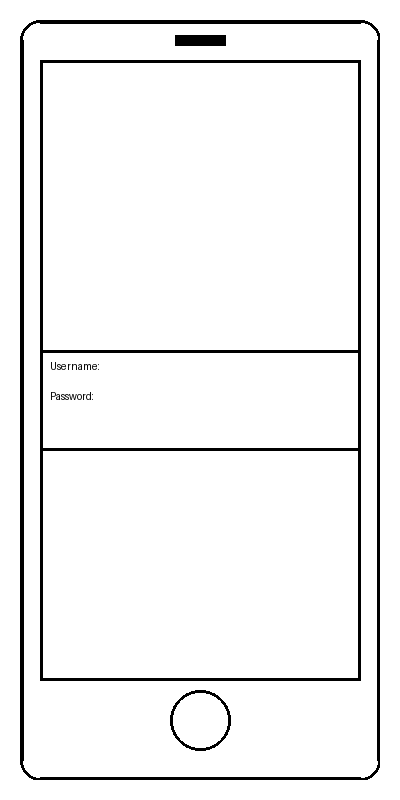
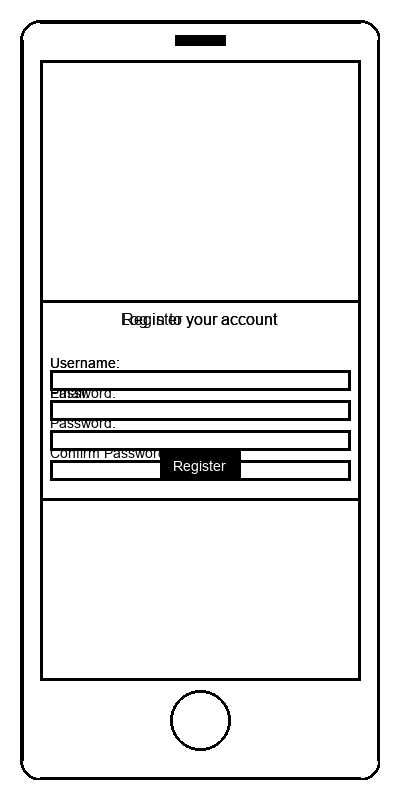
1

Changed region(s): [[0.12, 0.4375, 0.9, 0.625], [0.12, 0.375, 0.87, 0.4062]]

diff --git a/backend/myenv/nlp_processing.py b/backend/myenv/nlp_processing.py
@@ -17,18 +17,6 @@ def validate_plantuml_script(text):
     if not text.startswith("@startuml") or not text.endswith("@enduml"):
         raise ValueError("The script must start with '@startuml' and end with '@enduml'.")
 
-if __name__ == "__main__":
-    plantuml_script = sys.argv[1]
-
-    try:
-        validate_plantuml_script(plantuml_script)
-        parsed_text = parse_text(plantuml_script)
-        print(json.dumps({'parsed_text': parsed_text}))
-    except ValueError as e:
-        print(json.dumps(str(e)), file=sys.stderr)
-        sys.exit(1)
-
-
 def syntax_analysis(script):
     actor_pattern = r'actor\s+(\w+)'
     usecase_pattern = r'usecase\s+"(.*?)"\s+as\s+(\w+)'
@@ -46,7 +34,6 @@ print("Actors:", actors)
 print("Use Cases:", usecases)
 print("Relationships:", relationships)
 
-
 def map_to_wireframe_elements(actors, usecases, relationships):
     wireframe_elements = []
 
@@ -57,7 +44,6 @@ def map_to_wireframe_elements(actors, usecases, relationships):
             'component': 'user icon'  # Example UI component
         })
 
-    # Mapping use cases to UI components
     for usecase in usecases:
         wireframe_elements.append({
             'type': 'usecase',
@@ -75,7 +61,15 @@ def map_to_wireframe_elements(actors, usecases, relationships):
             'label': 'Login'
         })
 
-    # Mapping relationships to UI connectors
+    # Check for the "Register" use case
+    register_usecase = next((usecase for usecase in usecases if usecase[1] == 'Register'), None)
+    if register_usecase:
+        wireframe_elements.append({
+            'type': 'register_function',
+            'component': 'register form',  
+            'label': 'Register'
+        })
+
     for relationship in relationships:
         wireframe_elements.append({
             'type': 'relationship',
@@ -169,11 +163,12 @@ def generate_phone_wireframe_template(elements):
     phone_screen = phone_template((screen_width, screen_height), border_radius, "white", "black", border_width)
     img.paste(phone_screen, (screen_margin, screen_margin), phone_screen)
 
-    # Draw UI components
     for element in elements:
         if element['type'] == 'login_function':
             draw_login_form(draw, screen_margin, screen_width, screen_height, border_width)
-
+        elif element['type'] == 'register_function':
+            draw_register_form(draw, screen_margin, screen_width, screen_height, border_width)
+    
     img.show()
     img.save('phone_wireframe_template.png')
 
@@ -183,25 +178,28 @@ def draw_login_form(draw, screen_margin, screen_width, screen_height, border_wid
     form_x = (screen_width - form_width) // 2
     form_y = (screen_height - form_height) // 2
 
-    # Draw login form rectangle
     draw.rectangle([screen_margin + form_x, screen_margin + form_y,
                     screen_margin + form_x + form_width, screen_margin + form_y + form_height],
                    outline="black", width=border_width)
 
-    # Draw title text
     title_text = "Log in to your account"
     title_font_size = 16
-    title_font = ImageFont.truetype("arial.ttf", title_font_size)  # Adjust the font path if needed
+    try:
+        title_font = ImageFont.truetype("arial.ttf", title_font_size)
+    except IOError:
+        title_font = ImageFont.load_default()
     title_bbox = draw.textbbox((0, 0), title_text, font=title_font)
     title_width = title_bbox[2] - title_bbox[0]
     title_height = title_bbox[3] - title_bbox[1]
     title_x = screen_margin + form_x + (form_width - title_width) // 2
-    title_y = screen_margin + form_y + 10  # Add padding from top
+    title_y = screen_margin + form_y + 10
     draw.text((title_x, title_y), title_text, fill="black", font=title_font)
 
-    # Draw text fields labels
     label_font_size = 14
-    label_font = ImageFont.truetype("arial.ttf", label_font_size)  # Adjust the font path if needed
+    try:
+        label_font = ImageFont.truetype("arial.ttf", label_font_size)
+    except IOError:
+        label_font = ImageFont.load_default()
     username_label = "Username:"
     password_label = "Password:"
     username_bbox = draw.textbbox((0, 0), username_label, font=label_font)
@@ -209,7 +207,6 @@ def draw_login_form(draw, screen_margin, screen_width, screen_height, border_wid
     draw.text((screen_margin + form_x + 10, title_y + title_height + 30), username_label, fill="black", font=label_font)
     draw.text((screen_margin + form_x + 10, title_y + title_height + 60), password_label, fill="black", font=label_font)
 
-    # Draw text fields rectangles
     field_width = form_width - 20
     field_height = 20
     username_field_y = title_y + title_height + 45
@@ -221,7 +218,6 @@ def draw_login_form(draw, screen_margin, screen_width, screen_height, border_wid
                     screen_margin + form_x + 10 + field_width, password_field_y + field_height],
                    outline="black", width=border_width)
 
-    # Draw login button
     button_width = 80
     button_height = 30
     button_x = (screen_width - button_width) // 2
@@ -231,7 +227,10 @@ def draw_login_form(draw, screen_margin, screen_width, screen_height, border_wid
                    fill="black")
     button_text = "Log In"
     button_font_size = 14
-    button_font = ImageFont.truetype("arial.ttf", button_font_size)  # Adjust the font path if needed
+    try:
+        button_font = ImageFont.truetype("arial.ttf", button_font_size)
+    except IOError:
+        button_font = ImageFont.load_default()
     button_bbox = draw.textbbox((0, 0), button_text, font=button_font)
     button_text_width = button_bbox[2] - button_bbox[0]
     button_text_height = button_bbox[3] - button_bbox[1]
@@ -239,11 +238,89 @@ def draw_login_form(draw, screen_margin, screen_width, screen_height, border_wid
     button_text_y = screen_margin + button_y + (button_height - button_text_height) // 2
     draw.text((button_text_x, button_text_y), button_text, fill="white", font=button_font)
 
+def draw_register_form(draw, screen_margin, screen_width, screen_height, border_width):
+    form_width = screen_width - 40
+    form_height = 200
+    form_x = (screen_width - form_width) // 2
+    form_y = (screen_height - form_height) // 2
+
+    draw.rectangle([screen_margin + form_x, screen_margin + form_y,
+                    screen_margin + form_x + form_width, screen_margin + form_y + form_height],
+                   outline="black", width=border_width)
+
+    title_text = "Register your account"
+    title_font_size = 16
+    try:
+        title_font = ImageFont.truetype("arial.ttf", title_font_size)
+    except IOError:
+        title_font = ImageFont.load_default()
+    title_bbox = draw.textbbox((0, 0), title_text, font=title_font)
+    title_width = title_bbox[2] - title_bbox[0]
+    title_height = title_bbox[3] - title_bbox[1]
+    title_x = screen_margin + form_x + (form_width - title_width) // 2
+    title_y = screen_margin + form_y + 10
+    draw.text((title_x, title_y), title_text, fill="black", font=title_font)
+
+    label_font_size = 14
+    try:
+        label_font = ImageFont.truetype("arial.ttf", label_font_size)
+    except IOError:
+        label_font = ImageFont.load_default()
+    username_label = "Username:"
+    email_label = "Email:"
+    password_label = "Password:"
+    confirm_password_label = "Confirm Password:"
+    username_bbox = draw.textbbox((0, 0), username_label, font=label_font)
+    email_bbox = draw.textbbox((0, 0), email_label, font=label_font)
+    password_bbox = draw.textbbox((0, 0), password_label, font=label_font)
+    confirm_password_bbox = draw.textbbox((0, 0), confirm_password_label, font=label_font)
+    draw.text((screen_margin + form_x + 10, title_y + title_height + 30), username_label, fill="black", font=label_font)
+    draw.text((screen_margin + form_x + 10, title_y + title_height + 60), email_label, fill="black", font=label_font)
+    draw.text((screen_margin + form_x + 10, title_y + title_height + 90), password_label, fill="black", font=label_font)
+    draw.text((screen_margin + form_x + 10, title_y + title_height + 120), confirm_password_label, fill="black", font=label_font)
+
+    field_width = form_width - 20
+    field_height = 20
+    username_field_y = title_y + title_height + 45
+    email_field_y = title_y + title_height + 75
+    password_field_y = title_y + title_height + 105
+    confirm_password_field_y = title_y + title_height + 135
+    draw.rectangle([screen_margin + form_x + 10, username_field_y,
+                    screen_margin + form_x + 10 + field_width, username_field_y + field_height],
+                   outline="black", width=border_width)
+    draw.rectangle([screen_margin + form_x + 10, email_field_y,
+                    screen_margin + form_x + 10 + field_width, email_field_y + field_height],
+                   outline="black", width=border_width)
+    draw.rectangle([screen_margin + form_x + 10, password_field_y,
+                    screen_margin + form_x + 10 + field_width, password_field_y + field_height],
+                   outline="black", width=border_width)
+    draw.rectangle([screen_margin + form_x + 10, confirm_password_field_y,
+                    screen_margin + form_x + 10 + field_width, confirm_password_field_y + field_height],
+                   outline="black", width=border_width)
+
+    button_width = 80
+    button_height = 30
+    button_x = (screen_width - button_width) // 2
+    button_y = form_y + form_height - button_height - 20
+    draw.rectangle([screen_margin + button_x, screen_margin + button_y,
+                    screen_margin + button_x + button_width, screen_margin + button_y + button_height],
+                   fill="black")
+    button_text = "Register"
+    button_font_size = 14
+    try:
+        button_font = ImageFont.truetype("arial.ttf", button_font_size)
+    except IOError:
+        button_font = ImageFont.load_default()
+    button_bbox = draw.textbbox((0, 0), button_text, font=button_font)
+    button_text_width = button_bbox[2] - button_bbox[0]
+    button_text_height = button_bbox[3] - button_bbox[1]
+    button_text_x = screen_margin + button_x + (button_width - button_text_width) // 2
+    button_text_y = screen_margin + button_y + (button_height - button_text_height) // 2
+    draw.text((button_text_x, button_text_y), button_text, fill="white", font=button_font)
 
 if __name__ == "__main__":
     plantuml_script = sys.argv[1]
 
-    # Validate the PlantUML script
     try:
         validate_plantuml_script(plantuml_script)
     except ValueError as e:
@@ -253,15 +330,12 @@ if __name__ == "__main__":
     parsed_text = parse_text(plantuml_script)
     print("Parsed Text:", parsed_text)
 
-    # Perform syntax analysis
     actors, usecases, relationships = syntax_analysis(plantuml_script)
     print("Actors:", actors)
     print("Use Cases:", usecases)
     print("Relationships:", relationships)
 
-    # Map to wireframe elements
     wireframe_elements = map_to_wireframe_elements(actors, usecases, relationships)
     print("Wireframe Elements:", wireframe_elements)
 
-    # Generate wireframe template
     generate_phone_wireframe_template(wireframe_elements)
